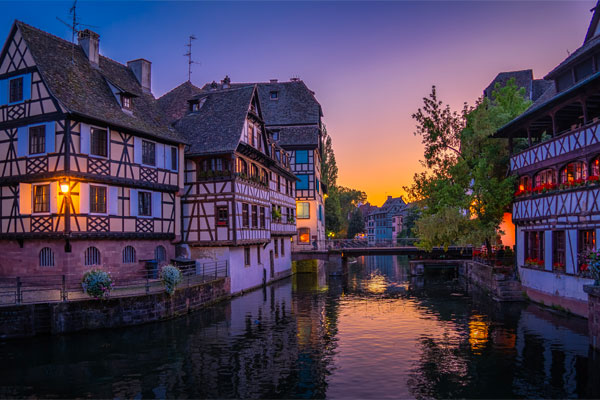
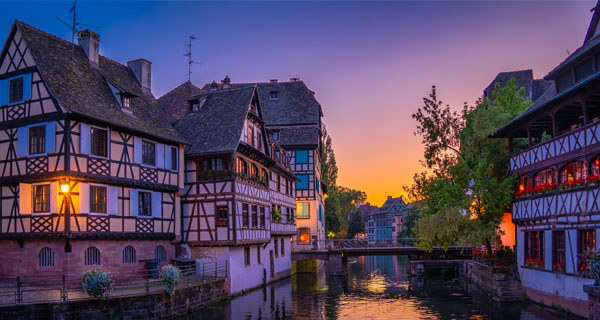
sky demo 高さ調整

diff --git a/photo-sky/demo-jpg.html b/photo-sky/demo-jpg.html
@@ -12,7 +12,7 @@
 <div
   class="ComparisonSlider"
   data-comparison-slider-auto
-  style="width: 600px; height: 400px;"
+  style="width: 600px; height: 320px;"
 >
   <div
     class="ComparisonSlider__Before"

diff --git a/photo-sky/demo-webp.html b/photo-sky/demo-webp.html
@@ -12,7 +12,7 @@
 <div
   class="ComparisonSlider"
   data-comparison-slider-auto
-  style="width: 600px; height: 400px;"
+  style="width: 600px; height: 320px;"
 >
   <div
     class="ComparisonSlider__Before"
